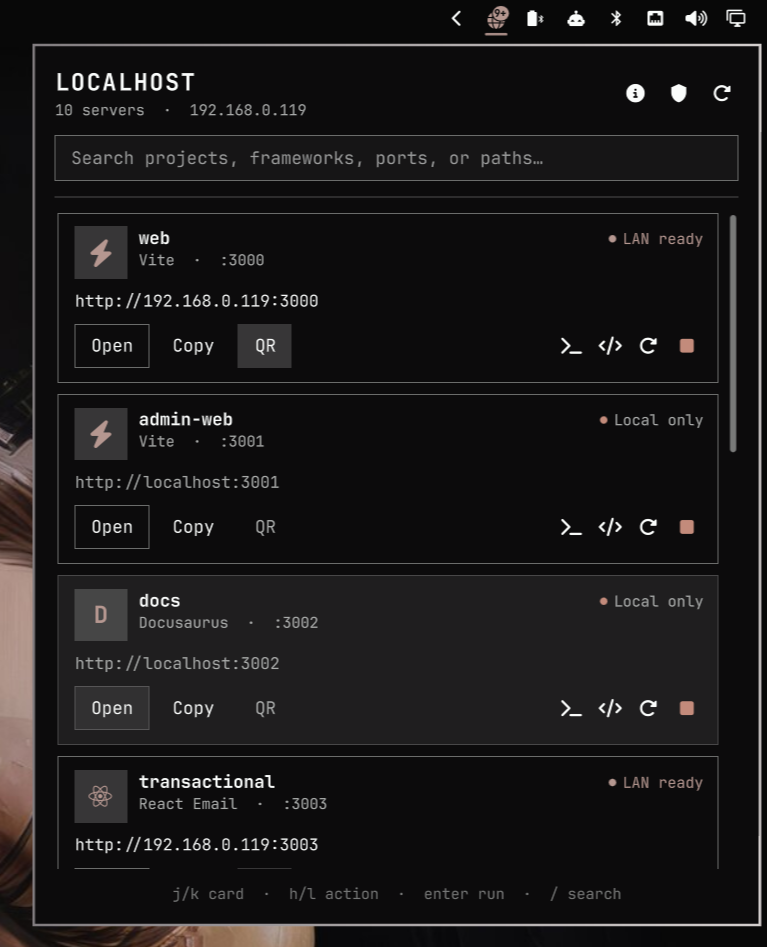
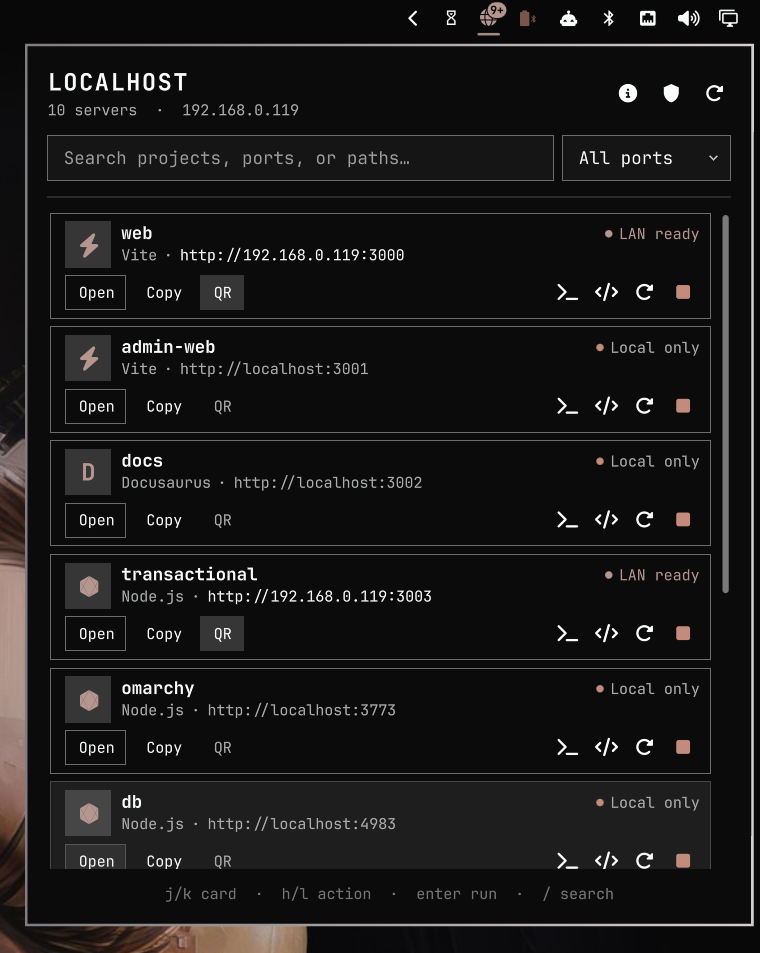
Add server port filters and compact Localhost panel layout (#12)
## Summary

Adds global server filters for common development ports, LAN-ready
servers, and Docker services. Updates the panel to show filtered result
counts, improves empty states and reset behavior, and compacts server
cards and controls. Also updates the Localhost IPC shortcut contract,
documentation, screenshots, and bumps the version to 0.4.5.

## Testing

- [x] `node --test tests/*.mjs`
- [ ] `python3 -m unittest discover -s tests -p 'test_*.py'`
- [ ] `omarchy plugin validate .` and `qmllint`, when available

## Checklist

- [x] Change stays focused, and user-visible behavior is documented.
- [x] Tests cover behavior changes where practical.
- [x] No secrets, private addresses, or unrelated generated files.

diff --git a/ServerPanel.qml b/ServerPanel.qml
@@ -23,6 +23,13 @@ Item {
   property string forceStopServerId: ""
 
   property string query: ""
+  property string portFilter: "all"
+  readonly property var portFilterOptions: [
+    { value: "all", label: "All ports" },
+    { value: "dev", label: "Dev ports" },
+    { value: "lan", label: "LAN ready" },
+    { value: "docker", label: "Docker" }
+  ]
   readonly property bool searchMode: searchField.activeFocus
   property int selectedIndex: 0
   property int selectedActionIndex: 0
@@ -57,11 +64,13 @@ Item {
   readonly property real cardInset: Style.space(2)
   readonly property int listHeight: Math.min(serverList.contentHeight, Style.space(450))
   readonly property bool hasDiagnostics: scanError !== "" || warnings.length > 0
+  readonly property bool resultsFiltered: query.trim() !== "" || portFilter !== "all"
 
   implicitWidth: panelWidth
   implicitHeight: panelLayout.implicitHeight
 
   function matches(server, needle) {
+    if (!RadarModel.matchesServerFilter(server, portFilter)) return false
     if (!needle) return true
     var haystack = [
       server.name, server.framework, server.frameworkId, server.port,
@@ -69,6 +78,13 @@ Item {
       server.containerId
     ].join(" ").toLowerCase()
     return haystack.indexOf(needle) !== -1
+  }
+
+  function portFilterLabel() {
+    for (var index = 0; index < portFilterOptions.length; index++)
+      if (portFilterOptions[index].value === portFilter)
+        return portFilterOptions[index].label
+    return "All ports"
   }
 
   function filteredIndex(serverId) {
@@ -181,6 +197,9 @@ Item {
       focusNavigation()
     } else if (query) {
       clearSearch()
+    } else if (portFilter !== "all") {
+      portFilter = "all"
+      focusNavigation()
     } else {
       closeRequested()
     }
@@ -331,6 +350,7 @@ Item {
 
   onRevisionChanged: rebuildFilteredModel()
   onQueryChanged: rebuildFilteredModel()
+  onPortFilterChanged: rebuildFilteredModel()
   Component.onCompleted: rebuildFilteredModel()
 
   ListModel { id: filteredModel }
@@ -367,7 +387,9 @@ Item {
 
         Text {
           Layout.fillWidth: true
-          text: root.serverCount + " server" + (root.serverCount === 1 ? "" : "s")
+          text: (root.resultsFiltered
+              ? root.resultCount + " of " + root.serverCount + " servers"
+              : root.serverCount + " server" + (root.serverCount === 1 ? "" : "s"))
             + (root.lanIp ? "  ·  " + root.lanIp : "")
           color: root.dim
           font.family: Style.font.family
@@ -410,18 +432,39 @@ Item {
       }
     }
 
-    TextField {
-      id: searchField
+    RowLayout {
       visible: !root.showFirewallRules && !root.showDiagnostics
       Layout.fillWidth: true
-      placeholderText: "Search projects, frameworks, ports, or paths…"
-      foreground: root.foreground
-      text: root.query
-      onTextChanged: {
-        if (root.query !== text) root.query = text
+      spacing: Style.space(6)
+
+      TextField {
+        id: searchField
+        Layout.fillWidth: true
+        placeholderText: "Search projects, ports, or paths…"
+        foreground: root.foreground
+        text: root.query
+        onTextChanged: {
+          if (root.query !== text) root.query = text
+        }
+        onPressed: root.beginSearch()
+        Keys.onPressed: function(event) { root.handleSearchKey(event) }
       }
-      onPressed: root.beginSearch()
-      Keys.onPressed: function(event) { root.handleSearchKey(event) }
+
+      Dropdown {
+        id: portFilterDropdown
+        Layout.preferredWidth: Style.space(116)
+        Layout.preferredHeight: searchField.implicitHeight
+        showLabel: false
+        rowHeight: searchField.implicitHeight
+        popupRowHeight: Style.space(30)
+        options: root.portFilterOptions
+        value: root.portFilter
+        foreground: root.foreground
+        onChanged: function(value) {
+          root.portFilter = value
+          root.focusNavigation()
+        }
+      }
     }
 
     Rectangle {
@@ -600,7 +643,7 @@ Item {
         visible: root.resultCount > 0
         model: filteredModel
         clip: true
-        spacing: Style.space(8)
+        spacing: Style.space(5)
         boundsBehavior: Flickable.StopAtBounds
         flickableDirection: Flickable.VerticalFlick
         interactive: contentHeight > height
@@ -697,7 +740,11 @@ Item {
 
         Text {
           width: parent.width
-          text: root.query ? "No projects match “" + root.query + "”" : (root.scanning ? "Looking for development servers…" : "No development servers found")
+          text: root.query
+            ? "No projects match “" + root.query + "” in " + root.portFilterLabel().toLowerCase()
+            : (root.portFilter !== "all"
+              ? "No servers match “" + root.portFilterLabel() + "”"
+              : (root.scanning ? "Looking for development servers…" : "No development servers found"))
           color: root.foreground
           opacity: 0.75
           font.family: Style.font.family
@@ -707,7 +754,7 @@ Item {
         }
 
         Text {
-          visible: !root.query && !root.scanning
+          visible: !root.query && root.portFilter === "all" && !root.scanning
           width: parent.width
           text: "Start a server or press Ctrl+R to scan again."
           color: root.dim
@@ -806,7 +853,7 @@ Item {
         ? Style.hoverBorderFor(root.foreground, Color.accent)
         : Style.normalBorderFor(root.foreground, Color.accent),
       Math.max(1, hasCursor ? Style.hoverBorderWidth : Style.normalBorderWidth))
-    implicitHeight: rowContent.implicitHeight + Style.space(20)
+    implicitHeight: rowContent.implicitHeight + Style.space(12)
 
     HoverHandler {
       onHoveredChanged: if (hovered) root.selectedIndex = row.index
@@ -817,17 +864,17 @@ Item {
       anchors.left: parent.left
       anchors.right: parent.right
       anchors.verticalCenter: parent.verticalCenter
-      anchors.leftMargin: Style.space(12)
-      anchors.rightMargin: Style.space(10)
-      spacing: Style.space(8)
+      anchors.leftMargin: Style.space(10)
+      anchors.rightMargin: Style.space(8)
+      spacing: Style.space(5)
 
       RowLayout {
         Layout.fillWidth: true
-        spacing: Style.space(8)
+        spacing: Style.space(7)
 
         BorderSurface {
-          Layout.preferredWidth: Style.space(36)
-          Layout.preferredHeight: Style.space(36)
+          Layout.preferredWidth: Style.space(32)
+          Layout.preferredHeight: Style.space(32)
           Layout.alignment: Qt.AlignTop
           color: Style.selectedFillFor(root.foreground, Color.accent)
           radius: Style.cornerRadius
@@ -838,7 +885,7 @@ Item {
             text: row.frameworkIcon
             color: Color.accent
             fontFamily: Style.font.family
-            fontSize: Math.round(Style.font.heading * 1.25)
+            fontSize: Math.round(Style.font.heading * 1.1)
           }
 
           Text {
@@ -905,24 +952,34 @@ Item {
             }
           }
 
-          Text {
+          RowLayout {
             Layout.fillWidth: true
-            text: row.framework + "  ·  :" + row.port
-            color: root.dim
-            font.family: Style.font.family
-            font.pixelSize: Style.font.caption
-            elide: Text.ElideRight
+            spacing: Style.space(4)
+
+            Text {
+              text: row.framework
+              color: root.dim
+              font.family: Style.font.family
+              font.pixelSize: Style.font.caption
+            }
+
+            Text {
+              text: "·"
+              color: root.dim
+              font.family: Style.font.family
+              font.pixelSize: Style.font.caption
+            }
+
+            Text {
+              Layout.fillWidth: true
+              text: row.effectiveUrl
+              color: row.lanAvailable ? root.foreground : root.dim
+              font.family: Style.font.family
+              font.pixelSize: Style.font.caption
+              elide: Text.ElideMiddle
+            }
           }
         }
-      }
-
-      Text {
-        Layout.fillWidth: true
-        text: row.effectiveUrl
-        color: row.lanAvailable ? root.foreground : root.dim
-        font.family: Style.font.family
-        font.pixelSize: Style.font.bodySmall
-        elide: Text.ElideMiddle
       }
 
       RowLayout {
@@ -933,6 +990,9 @@ Item {
           text: "Open"
           foreground: root.foreground
           bordered: true
+          fontSize: Style.font.caption
+          horizontalPadding: Style.space(8)
+          verticalPadding: Style.space(4)
           hasCursor: row.index === root.selectedIndex && root.selectedActionIndex === 0
           onHovered: function(on) { if (on) root.setActionCursor(row.index, 0) }
           onClicked: root.openRequested(row.server)
@@ -940,6 +1000,9 @@ Item {
         Button {
           text: "Copy"
           foreground: root.foreground
+          fontSize: Style.font.caption
+          horizontalPadding: Style.space(8)
+          verticalPadding: Style.space(4)
           hasCursor: row.index === root.selectedIndex && root.selectedActionIndex === 1
           onHovered: function(on) { if (on) root.setActionCursor(row.index, 1) }
           onClicked: root.copyRequested(row.server)
@@ -950,6 +1013,9 @@ Item {
           accent: Color.accent
           active: row.lanAvailable
           enabled: row.lanAvailable
+          fontSize: Style.font.caption
+          horizontalPadding: Style.space(8)
+          verticalPadding: Style.space(4)
           hasCursor: row.index === root.selectedIndex && root.selectedActionIndex === 2
           tooltipText: row.lanAvailable ? "Open phone-ready QR code" : "Bind the server to 0.0.0.0 first"
           onHovered: function(on) { if (on) root.setActionCursor(row.index, 2) }

diff --git a/RadarModel.js b/RadarModel.js
@@ -4,6 +4,19 @@ var COMMON_DEV_PORTS = {
   8001: true, 8080: true, 8787: true
 }
 
+function isCommonDevPort(port) {
+  return COMMON_DEV_PORTS[Number(port)] === true
+}
+
+function matchesServerFilter(server, filterId) {
+  var normalized = normalizeServer(server)
+  var selectedFilter = String(filterId || "all")
+  if (selectedFilter === "dev") return isCommonDevPort(normalized.port)
+  if (selectedFilter === "lan") return normalized.lanAvailable
+  if (selectedFilter === "docker") return normalized.source === "docker"
+  return true
+}
+
 // Active HTTP probes are noisy when they hit databases and other services:
 // some of them log the HTTP request as a malformed protocol handshake. Match
 // the container-side port so a remapped service (for example 15432->5432) is

diff --git a/Widget.qml b/Widget.qml
@@ -141,7 +141,7 @@ BarWidget {
     else openPanel()
   }
 
-  // Shape contract used by `omarchy-shell shell toggle emils.localhost`.
+  // Direct IPC contract used by `omarchy-shell emils.localhost toggle`.
   function open() { openPanel() }
   function close() { closePanel() }
   function toggle() { togglePanel() }

diff --git a/README.md b/README.md
@@ -66,7 +66,7 @@ optional and only runs when Docker is available.
 it to toggle Localhost, add this to `~/.config/hypr/bindings.lua`:
 
 ```lua
-o.bind("SUPER + SHIFT + L", "Localhost", "omarchy-shell shell toggle emils.localhost")
+o.bind("SUPER + SHIFT + L", "Localhost", "omarchy-shell emils.localhost toggle")
 ```
 
 ## Use it from a phone
